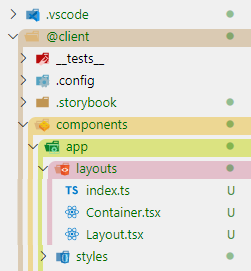
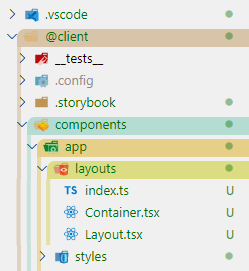
color repeat

diff --git a/src/build.js b/src/build.js
@@ -2,12 +2,16 @@ const { writeFileSync } = require('fs')
 const { indentSize, colors, alpha } = require('../mixins')
 const { transparent } = require('./utils')
 
+const rColors = [null, null, ...colors, ...colors.slice(0, 2)]
+
 const c = (n, directory) => {
-    const color = colors[n]
-    return color ? color(directory ? alpha.directory : alpha.file) : transparent
+    const color = rColors[n]
+    return color
+        ? color(directory ? alpha.directory + 0.1 : alpha.directory - 0.1)
+        : transparent
 }
 
-const marginX = 5
+const marginX = 6
 const marginY = 4
 
 const p = (n, offset = 0) =>
@@ -49,15 +53,15 @@ const arr = (length) => [...Array(length)].map((_, i) => i + 1)
 
 const lv = (n) => {
     const chunk = (_n) => [
-        cp([_n, true], [_n + 1]),
+        cp([_n], [_n + 1]),
         cp([null], [_n + 1]),
         cp([null], [_n + 1, marginX]),
-        cp([_n + 1, true], [_n + 1, marginX]),
+        cp([_n + 1], [_n + 1, marginX]),
     ]
 
     const gDefaultOuter = arr(n - 1)
         .flatMap(chunk)
-        .concat(cp([n, true], [n + 1]), cp([null], [n + 1]))
+        .concat(cp([n], [n + 1]), cp([null], [n + 1]))
         .join(', ')
 
     const gExpandedOuter = arr(n).flatMap(chunk).slice(0, -2).join(', ')
@@ -80,7 +84,7 @@ const lv = (n) => {
 }
 
 const main = () => {
-    const str = [base(), ...arr(7).map((n) => lv(n))].join('')
+    const str = [base(), ...arr(rColors.length - 1).map((n) => lv(n))].join('')
     writeFileSync('main.css', str)
 }
 

diff --git a/mixins.example.js b/mixins.example.js
@@ -5,18 +5,13 @@ module.exports = {
 
     alpha: {
         directory: 0.55, // ディレクトリの不透明度
-        file: 0.12, // ファイルの不透明度
     },
     colors: [
         // 各階層の色、hsl() または rgb() で指定
-        null,
-        null,
         hsl(35, 40, 65),
-        hsl(45, 80, 60),
-        hsl(65, 70, 50),
-        hsl(340, 45, 72),
-        hsl(160, 55, 70),
-        hsl(195, 60, 70),
-        null,
+        hsl(165, 40, 70),
+        hsl(45, 70, 60),
+        hsl(60, 60, 55),
+        hsl(5, 35, 75),
     ],
 }
